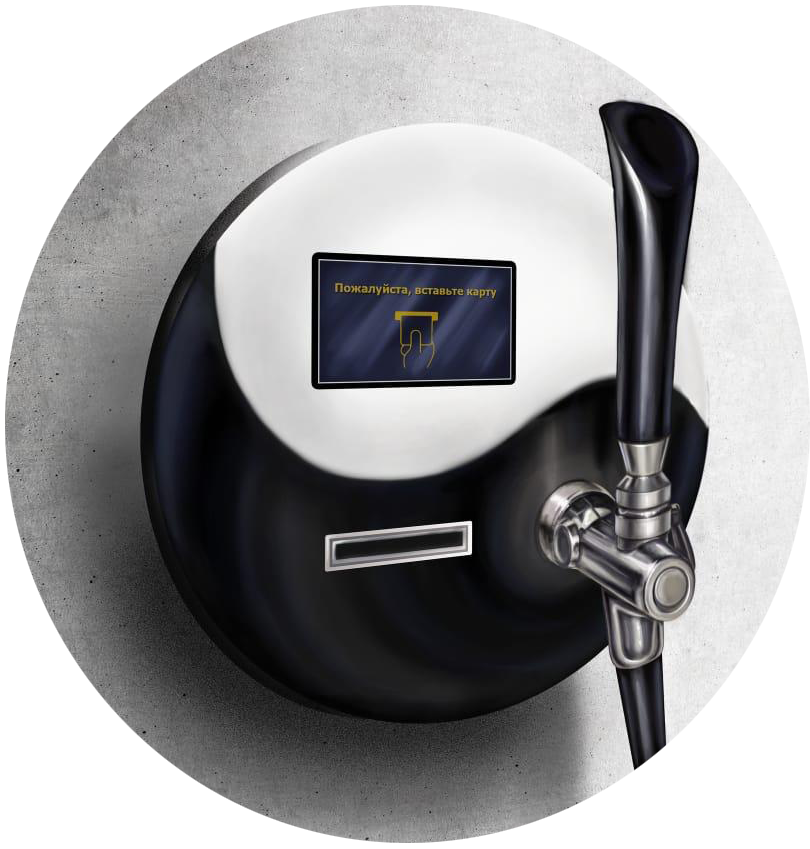
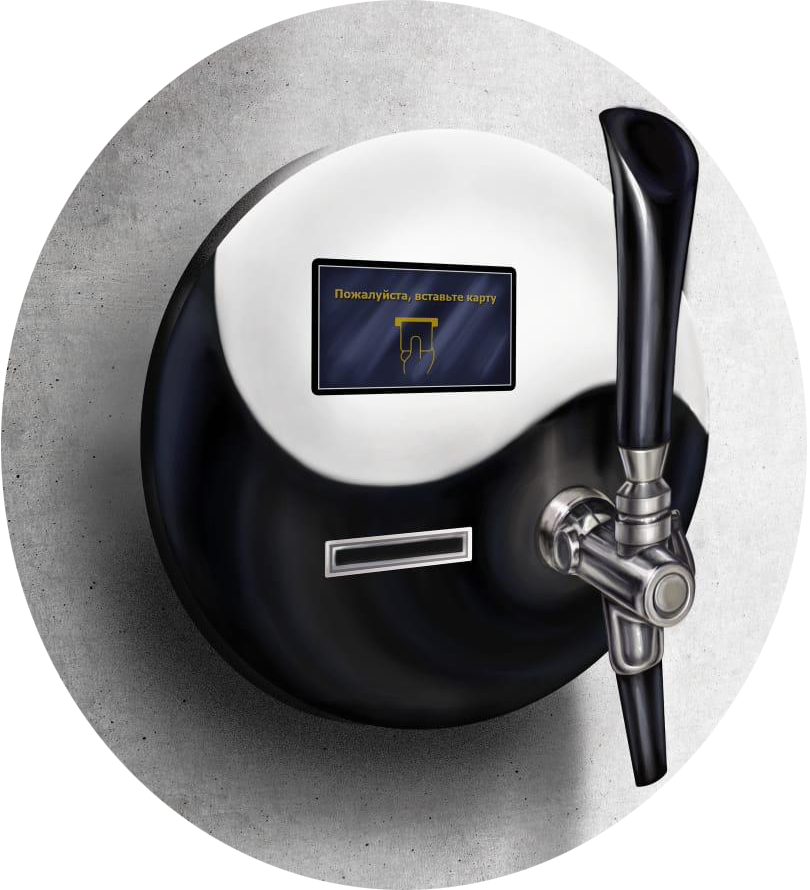
fix

diff --git a/index.html b/index.html
@@ -82,7 +82,7 @@
                         </p>
                     </div>
                     <div class="col-12 h-100 align-self-center text-center col-lg-6">
-                        <img src="smarttap.png" class='pl-xl-4 pr-xl-4 pb-xl-4 img-fluid' alt="">
+                        <img src="smarttap.png" class='img-custom-2 img-fluid' alt="">
                     </div>
                     <div class="col-12 p-3 pl-4 col-lg-6 d-none d-lg-block">
                         <h5 style='background-color: #fed434' class="d-inline p-2 rounded font-weight-bold">УМНЫЙ БАРМЕН-РОБОТ</h5>

diff --git a/style.css b/style.css
@@ -16,11 +16,6 @@ html, body {
     height: 75px;
 }
 
-.img-custom-2 {
-    width: 600px;
-    height: 640px;
-}
-
 .img-custom-3 {
     width: 100px;
     height: 100px;
@@ -543,6 +538,12 @@ nav * {
 .item:nth-child(even):before {
     right: auto;
     left: 4px;
+}
+
+@media screen and (min-width: 768px) {
+    .img-custom-2 {
+        width: 83%;
+    }
 }
 
 @media screen and (max-width: 1024px) {
